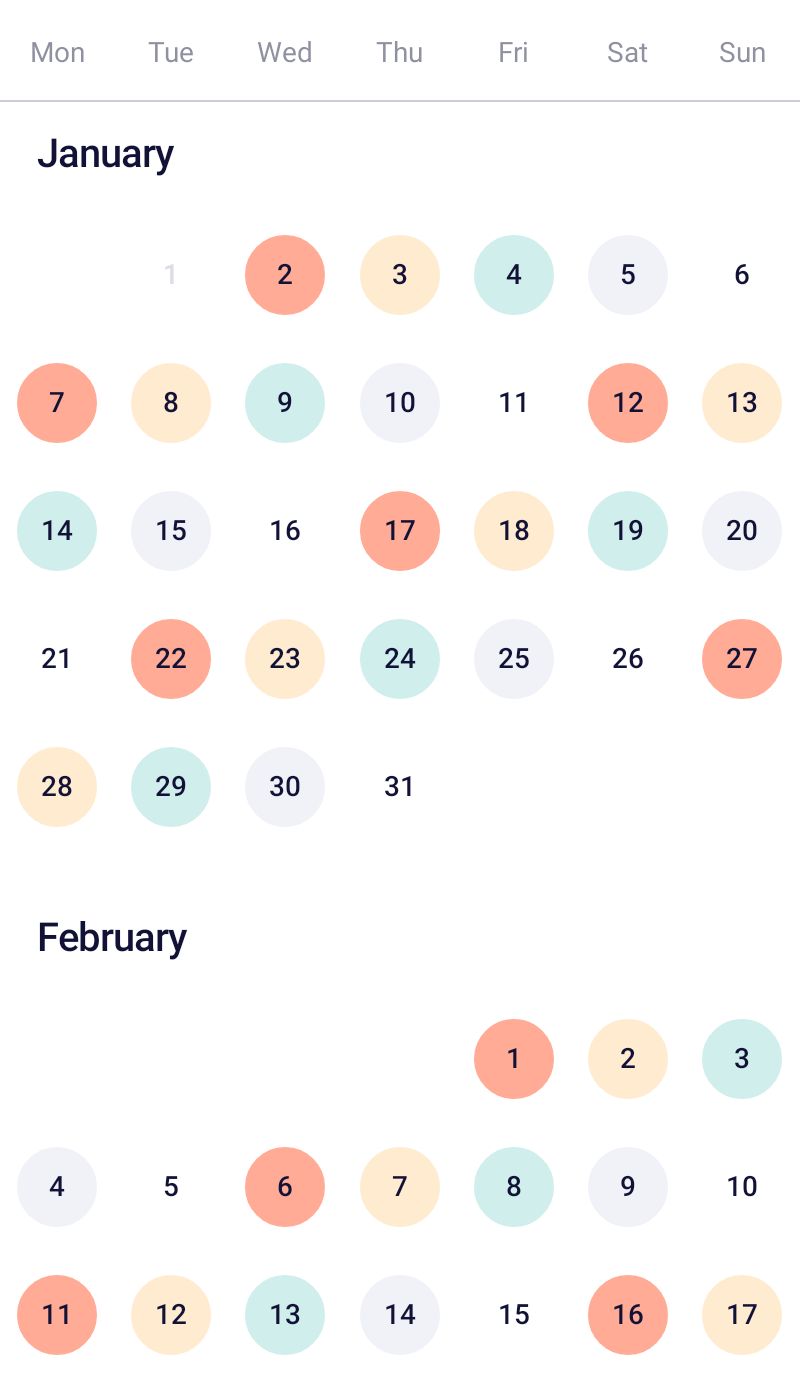
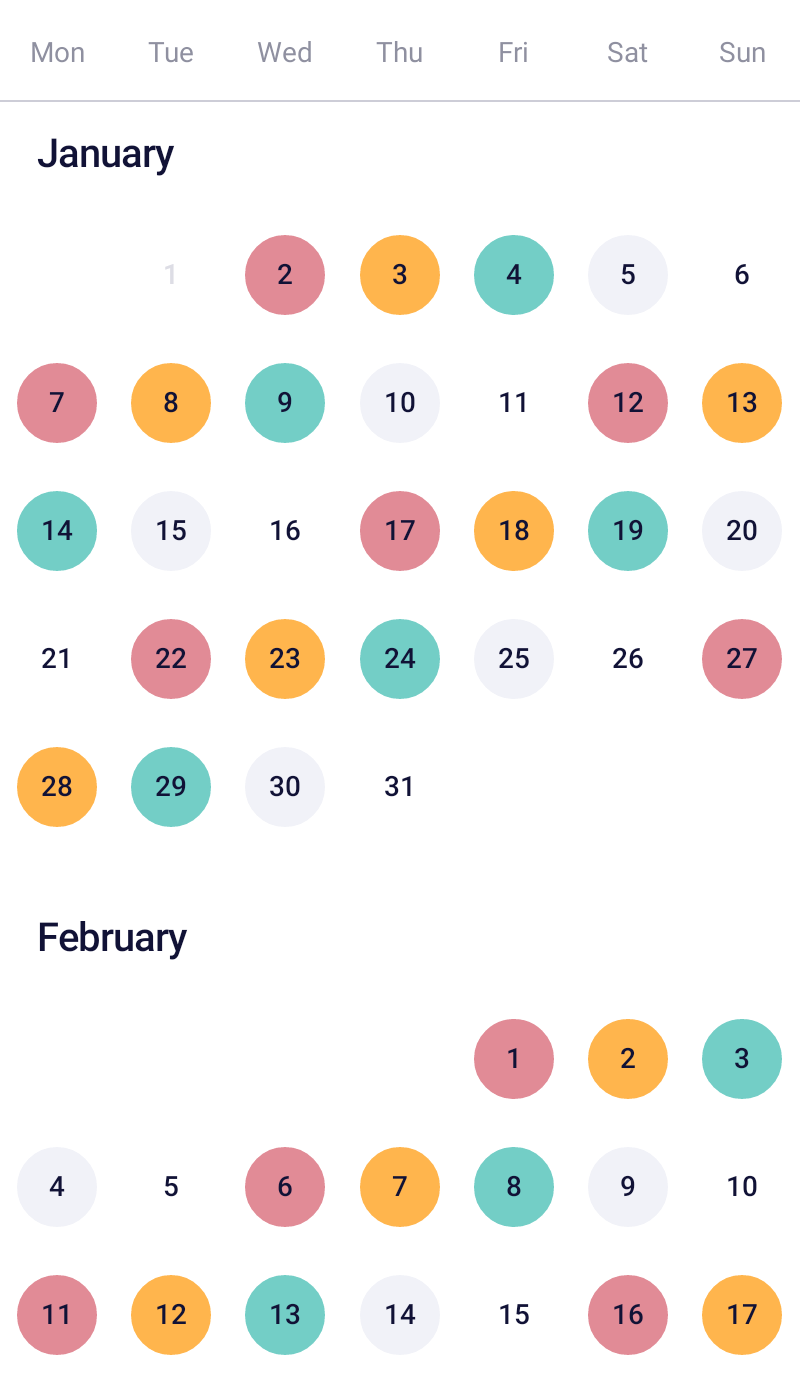
[BPK-3693] Limit colour usage in coloured calendar

diff --git a/Backpack/src/main/java/net/skyscanner/backpack/calendar/model/CalendarColoring.kt b/Backpack/src/main/java/net/skyscanner/backpack/calendar/model/CalendarColoring.kt
@@ -1,7 +1,11 @@
 package net.skyscanner.backpack.calendar.model
 
+import android.content.Context
+import android.graphics.Color
 import androidx.annotation.ColorInt
+import androidx.core.content.ContextCompat
 import androidx.core.graphics.ColorUtils
+import net.skyscanner.backpack.R
 import org.threeten.bp.LocalDate
 
 data class CalendarColoring(
@@ -9,14 +13,73 @@ data class CalendarColoring(
 )
 
 data class ColoredBucket(
-  @ColorInt val color: Int?,
-  val days: Set<LocalDate>,
-  @ColorInt val selectedColor: Int? = color,
-  val textStyle: TextStyle? = color?.let { if (ColorUtils.calculateLuminance(it) < 0.5f) TextStyle.Dark else TextStyle.Light }
-) {
+  val calendarCellStyle: CalendarCellStyle,
+  val days: Set<LocalDate>
+)
 
+abstract class CalendarCellStyle {
+
+  /**
+   * Text style of the calendar cell. Where [Light] and [Dark] refer to the background colour.
+   * I.e.
+   *  [Light] should be used to indicate the background is light and black text should be used.
+   *  [Dark] should be used to indicate the background is dark and white text should be used.
+   */
   enum class TextStyle {
     Light,
     Dark
   }
+
+  companion object {
+    /**
+     * A positive cell style which is suitable to indicate for example
+     * a date which has a comparatively low price among the dates in
+     * the calendar.
+     */
+    @JvmStatic
+    val positive = object : CalendarCellStyle() {
+      override fun color(context: Context) = ContextCompat.getColor(context, R.color.bpkGlencoe)
+    }
+
+    /**
+     * A neutral cell style which is suitable to indicate for example
+     * a date which has a comparatively average price among the dates in
+     * the calendar.
+     */
+    @JvmStatic
+    val neutral = object : CalendarCellStyle() {
+      override fun color(context: Context) = ContextCompat.getColor(context, R.color.bpkErfoud)
+    }
+
+    /**
+     * A negative cell style which is suitable to indicate for example
+     * a date which has a comparatively high price among the dates in
+     * the calendar.
+     */
+    @JvmStatic
+    val negative = object : CalendarCellStyle() {
+      override fun color(context: Context) = ContextCompat.getColor(context, R.color.bpkHillier)
+      override fun textStyle(context: Context) = TextStyle.Light
+    }
+
+    /**
+     * A custom cell style.
+     */
+    @JvmStatic
+    fun custom(@ColorInt color: Int?, textStyle: TextStyle? = null) = object : CalendarCellStyle() {
+      override fun color(context: Context) = color ?: Color.TRANSPARENT
+      override fun textStyle(context: Context): TextStyle {
+        return textStyle ?: super.textStyle(context)
+      }
+    }
+  }
+
+  @ColorInt
+  abstract fun color(context: Context): Int
+
+  open fun textStyle(context: Context): TextStyle =
+    if (ColorUtils.calculateLuminance(color(context)) < 0.5f)
+      TextStyle.Dark
+    else
+      TextStyle.Light
 }

diff --git a/app/src/main/java/net/skyscanner/backpack/demo/data/ExampleBpkCalendarController.kt b/app/src/main/java/net/skyscanner/backpack/demo/data/ExampleBpkCalendarController.kt
@@ -6,11 +6,7 @@ import android.widget.Toast
 import androidx.annotation.VisibleForTesting
 import androidx.core.content.ContextCompat
 import androidx.core.view.ViewCompat.LAYOUT_DIRECTION_RTL
-import net.skyscanner.backpack.calendar.model.CalendarColoring
-import net.skyscanner.backpack.calendar.model.CalendarRange
-import net.skyscanner.backpack.calendar.model.CalendarSelection
-import net.skyscanner.backpack.calendar.model.ColoredBucket
-import net.skyscanner.backpack.calendar.model.SingleDay
+import net.skyscanner.backpack.calendar.model.*
 import net.skyscanner.backpack.calendar.presenter.BpkCalendarController
 import net.skyscanner.backpack.calendar.presenter.SelectionType
 import net.skyscanner.backpack.demo.R
@@ -72,7 +68,6 @@ internal fun multiColoredExampleCalendarColoring(
   val yellowSet = mutableSetOf<LocalDate>()
   val greenSet = mutableSetOf<LocalDate>()
   val greySet = mutableSetOf<LocalDate>()
-  val emptySet = mutableSetOf<LocalDate>()
   var dateIterator = LocalDate.of(startDate.year, startDate.month, startDate.dayOfMonth)
   for (i in 0 until daysBetweenStartAndEnd) {
     val shiftedIterator = i + colorOffset
@@ -81,18 +76,19 @@ internal fun multiColoredExampleCalendarColoring(
       shiftedIterator % 5 == 1L -> yellowSet
       shiftedIterator % 5 == 2L -> greenSet
       shiftedIterator % 5 == 3L -> greySet
-      shiftedIterator % 5 == 4L -> emptySet
       else -> mutableSetOf()
     }.add(dateIterator)
     dateIterator = dateIterator.plusDays(1)
   }
   return CalendarColoring(
     setOf(
-      ColoredBucket(ContextCompat.getColor(context, R.color.bpkPetra), redSet),
-      ColoredBucket(ContextCompat.getColor(context, R.color.bpkBagan), yellowSet),
-      ColoredBucket(ContextCompat.getColor(context, R.color.bpkSagano), greenSet),
-      ColoredBucket(ContextCompat.getColor(context, R.color.bpkBackgroundSecondary), greySet),
-      ColoredBucket(null, emptySet, ContextCompat.getColor(context, R.color.bpkPetra))
+      ColoredBucket(CalendarCellStyle.negative, redSet),
+      ColoredBucket(CalendarCellStyle.neutral, yellowSet),
+      ColoredBucket(CalendarCellStyle.positive, greenSet),
+      ColoredBucket(
+        CalendarCellStyle.custom(ContextCompat.getColor(context, R.color.bpkBackgroundSecondary)),
+        greySet
+      )
     )
   )
 }

diff --git a/Backpack/src/main/java/net/skyscanner/backpack/calendar/view/MonthView.kt b/Backpack/src/main/java/net/skyscanner/backpack/calendar/view/MonthView.kt
@@ -29,6 +29,7 @@ import android.view.View
 import androidx.annotation.VisibleForTesting
 import androidx.core.content.ContextCompat
 import net.skyscanner.backpack.R
+import net.skyscanner.backpack.calendar.model.CalendarCellStyle
 import net.skyscanner.backpack.calendar.model.CalendarDrawingParams
 import net.skyscanner.backpack.calendar.model.CalendarRange
 import net.skyscanner.backpack.calendar.model.ColoredBucket
@@ -38,6 +39,7 @@ import net.skyscanner.backpack.util.ResourcesUtil
 import org.threeten.bp.DayOfWeek
 import org.threeten.bp.LocalDate
 import org.threeten.bp.temporal.WeekFields
+import java.util.*
 
 /**
  * A calendar-like view displaying a specified month and the appropriate selectable day numbers
@@ -344,7 +346,7 @@ internal class MonthView @JvmOverloads constructor(
         }
         CalendarRange.DrawType.NONE -> {
           if (colouredParams.containsKey(calendarDay)) {
-            colouredBucketPaint.color = colouredParams.get(calendarDay)?.color ?: Color.TRANSPARENT
+            colouredBucketPaint.color = colouredParams.get(calendarDay)?.calendarCellStyle?.color(context) ?: Color.TRANSPARENT
             drawCircle(
               canvas,
               x,
@@ -371,9 +373,9 @@ internal class MonthView @JvmOverloads constructor(
       overrideTextColor != null -> overrideTextColor
       type == CalendarRange.DrawType.SELECTED -> defaultTextColor
       type == CalendarRange.DrawType.RANGE -> defaultTextColor
-      else -> when (colouredParams[calendarDay]?.textStyle) {
-        ColoredBucket.TextStyle.Light -> defaultTextColorLight
-        ColoredBucket.TextStyle.Dark -> defaultTextColorDark
+      else -> when (colouredParams[calendarDay]?.calendarCellStyle?.textStyle(context)) {
+        CalendarCellStyle.TextStyle.Light -> defaultTextColorLight
+        CalendarCellStyle.TextStyle.Dark -> defaultTextColorDark
         null -> defaultTextColor
       }
     }

diff --git a/docs/Calendar/README.md b/docs/Calendar/README.md
@@ -107,6 +107,34 @@ class ExampleBpkCalendarController(
 }
 ```
 
+### Coloured buckets
+
+Coloured buckets are used to change the style of calendar cells.
+
+To define coloured buckets set the `calendarColoring` attribute in the calendar controller.
+
+```kotlin
+class ExampleBpkCalendarController(
+  override val selectionType: SelectionType
+ ) : BpkCalendarController(selectionType) {
+  override val calendarColoring = CalendarColoring(
+    setOf(
+      ColoredBucket(CalendarCellStyle.negative, redSet),
+      ColoredBucket(CalendarCellStyle.neutral, yellowSet),
+      ColoredBucket(CalendarCellStyle.positive, greenSet),
+      ColoredBucket(
+        CalendarCellStyle.custom(ContextCompat.getColor(context, R.color.bpkBackgroundSecondary)),
+        greySet
+      )
+    )
+}
+```
+
+For more examples see:
+
+- [ExampleBpkCalendarController](https://github.com/Skyscanner/backpack-android/blob/master/app/src/main/java/net/skyscanner/backpack/demo/data/ExampleBpkCalendarController.kt)
+- [CalendarColoring](https://github.com/Skyscanner/backpack-android/blob/master/Backpack/src/main/java/net/skyscanner/backpack/calendar/model/CalendarColoring.kt)
+
 ## Theme Props
 
 - `calendarDateSelectedBackgroundColor`

diff --git a/UNRELEASED.md b/UNRELEASED.md
@@ -1,7 +1,13 @@
 # Unreleased
 
 > Place your changes below this line.
-  
+
+**Breaking:**
+
+- BpkCalendar
+  - Added pre defined `CalendarCellStyles` to standardize calendar colouring logic.
+  - `ColoredBucket` constructor was changed to use `CalendarCellStyles`.
+
 ## How to write a good changelog entry
 
 1. Add 'Breaking', 'Added' or 'Fixed' in bold depending on if the change will be major, minor or patch according to [semver](semver.org).
